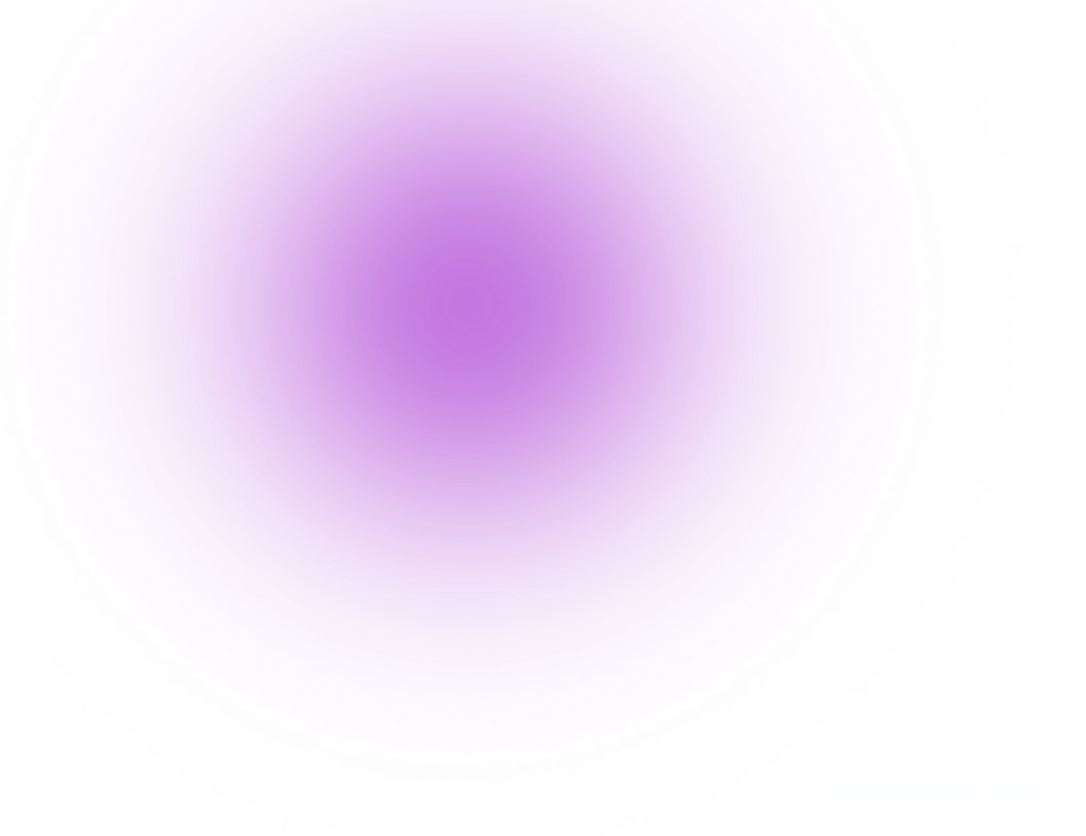
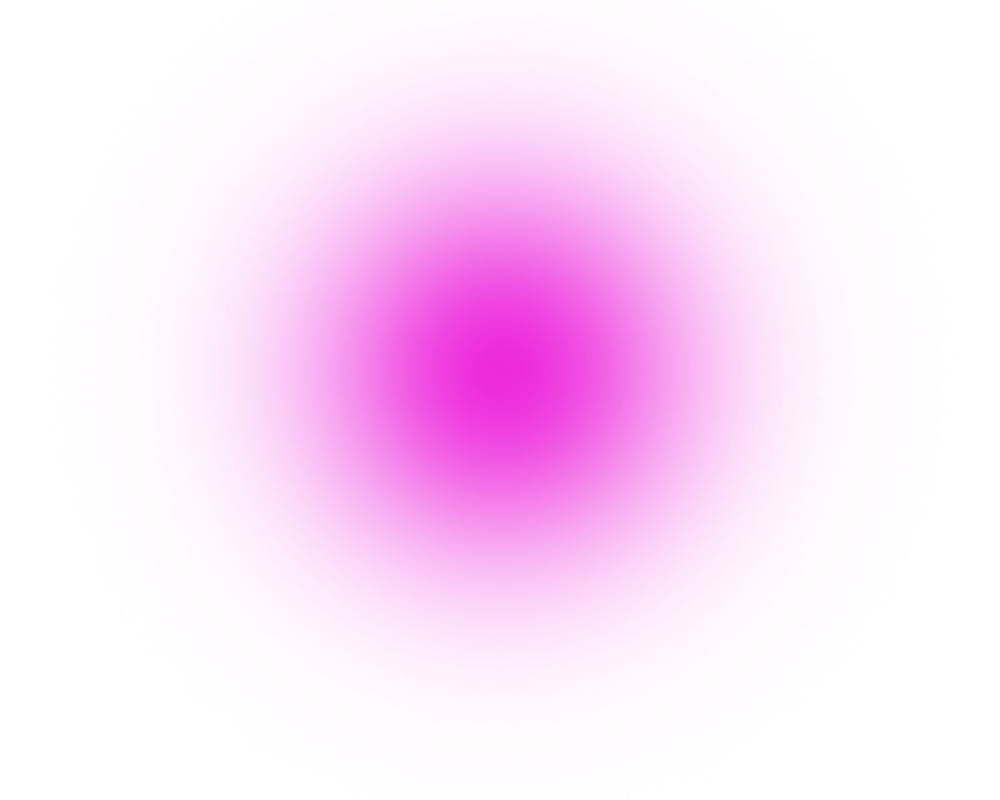
overview part 5

Changed region(s): [[0.155, 0.0, 0.775, 0.7812]]

diff --git a/src/components/Overview.jsx b/src/components/Overview.jsx
@@ -45,7 +45,8 @@ function Overview() {
       </section>
 
       {/* --------------------2nd part--------------------- */}
-      <section className="border-y border-white/20">
+
+      <section className="relative border-y border-white/20">
         <section className="mx-auto flex max-w-[70rem] flex-row-reverse items-center justify-center gap-[3rem]">
           <section className="relative w-1/2">
             <img
@@ -62,7 +63,7 @@ function Overview() {
             />
           </section>
 
-          <section className="flex w-1/2 flex-col gap-6">
+          <section className="z-50 flex w-1/2 flex-col gap-6">
             <span className="relative">
               <h2 className="font-clash text-[2rem] font-bold text-white">
                 Rules and <br />
@@ -86,7 +87,27 @@ function Overview() {
             </span>
           </section>
         </section>
+
+        <section className="absolute left-0 top-0 h-full w-full overflow-hidden">
+          <img
+            className="absolute -bottom-32 left-0 mix-blend-saturation"
+            src="/Purple-Lens-Flare.png"
+            alt="Purple Flare"
+          />
+        </section>
+
+        <section className="absolute right-0 top-0 h-full w-full overflow-hidden">
+          <img
+            className="absolute -right-[30rem] top-20 mix-blend-saturation"
+            src="/Purple-Lens-Flare.png"
+            alt="Purple Flare"
+          />
+        </section>
       </section>
+
+      {/* --------------------3rd part--------------------- */}
+
+      <section></section>
     </section>
   );
 }

diff --git a/src/components/Hero.jsx b/src/components/Hero.jsx
@@ -97,7 +97,7 @@ function Hero() {
         />
       </section>
 
-      <section className="absolute -top-44 left-0 h-full w-3/4 bg-[url('/Purple-Lens-Flare.png')] bg-cover bg-no-repeat mix-blend-hard-light"></section>
+      <section className="absolute -left-40 -top-[22rem] h-full w-3/4 bg-[url('/Purple-Lens-Flare.png')] bg-cover bg-no-repeat mix-blend-saturation"></section>
 
       <section className="absolute bottom-0 right-0">
         <img
